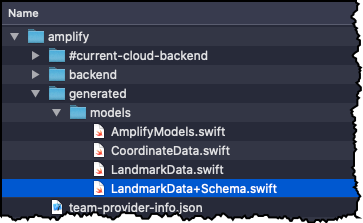
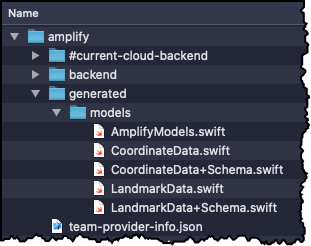
add instructions for the new generated code

Changed region(s): [[0.0, 0.0, 1.0, 1.0], [0.0, 0.0269, 0.1447, 0.0807]]

diff --git a/MOB304/instructions/content/40_add_api/30_client_code.md b/MOB304/instructions/content/40_add_api/30_client_code.md
@@ -91,7 +91,7 @@ Wait for the generation to complete and check there is no error.
 
 ![amplify codegen](/images/40-30-amplify-codegen-1.png)
 
-Add the generated files in your project.  In the Finder, locate 4 files in *amplify/generated/models* and drag them into your XCode project.
+Add the generated files in your project.  In the Finder, locate 5 files in *amplify/generated/models* and drag them into your XCode project.
 
 ![amplify codegen files](/images/40-30-amplify-codegen-2.png)
 
